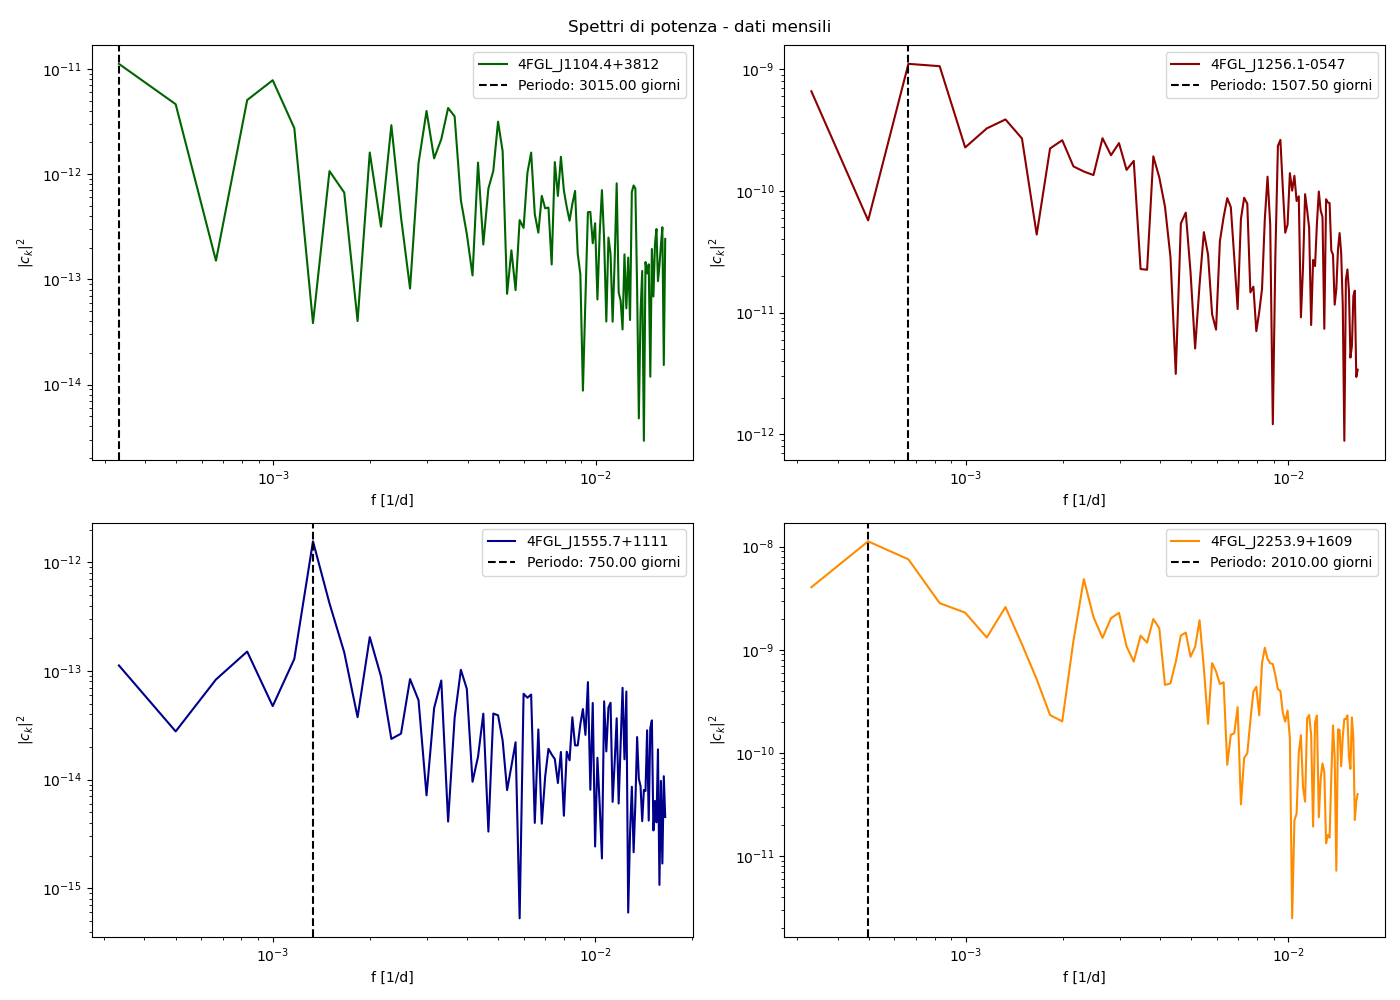
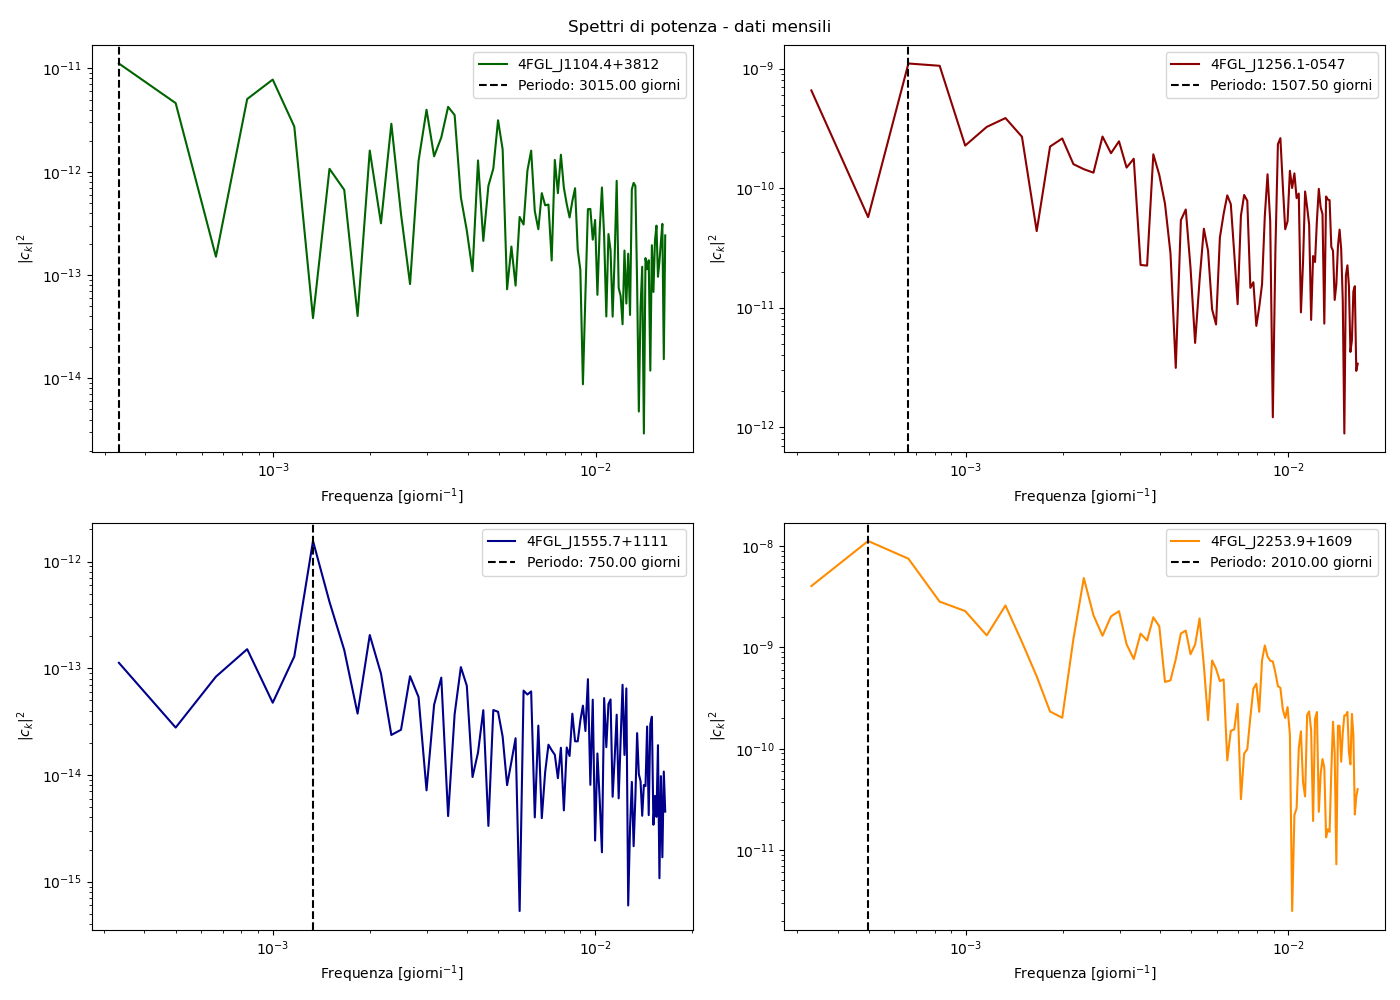
modifica

diff --git a/Curve_di_luce.py b/Curve_di_luce.py
@@ -185,6 +185,8 @@ def main():
             frequencies_w = weekly_source_data[source]['freq'][2:tmp_len]
             powers_w = np.absolute(weekly_source_data[source]['c'][2:tmp_len]) ** 2
             max_frequency, max_power, max_period = trova_picco_spettro(frequencies_w, powers_w)
+            errors_w = weekly_source_data[source]['df'][flux_err].values[2:tmp_len]
+            max_power_error = errors_w[powers_w == max_power][0]
             period_years = max_period / 365 # Conversione del periodo da giorni ad anni
 
             # Calcolo del tempo di osservazione e del numero di cicli osservati durante il periodo di misurazione
@@ -192,8 +194,8 @@ def main():
             number_periods = observation_time / max_period
 
             # Print dei risultati 
-            print('\nSorgente: {}\nFrequenza massima: {:.2e} 1/giorni\n' 'Potenza massima: {:.2e}\nPeriodo: {:.2f} giorni ({:.2f} anni)\n'
-                  'Numero di periodi nel tempo di misurazione: {:.2f}'.format(source, max_frequency, max_power, max_period, period_years, number_periods))
+            print('\nSorgente: {}\nFrequenza massima: {:.2e} 1/giorni\n' 'Potenza massima: {:.2e} +/- {:.2e}\nPeriodo: {:.2f} giorni ({:.2f} anni)\n'
+                  'Numero di periodi nel tempo di misurazione: {:.2f}'.format(source, max_frequency, max_power, max_power_error, max_period, period_years, number_periods))
 
             # Grafici in scala log-log degli spettri di potenza settimanali
             axs[i].plot(frequencies_w, powers_w, color=colors[i], label=source)
@@ -201,7 +203,7 @@ def main():
                            label='Periodo: {:.2f} giorni'.format(max_period))
             axs[i].set_xscale('log')
             axs[i].set_yscale('log')
-            axs[i].set_xlabel('f [1/d]')
+            axs[i].set_xlabel(r'Frequenza [giorni$^{-1}$]')
             axs[i].set_ylabel(r'$|c_k|^2$')
             axs[i].legend(loc='best')
             i += 1
@@ -223,7 +225,7 @@ def main():
 
         plt.xscale('log')
         plt.yscale('log')
-        plt.xlabel('f [1/d]')
+        plt.xlabel(r'Frequenza [giorni$^{-1}$]')
         plt.ylabel(r'$|c_k|^2$')
         plt.legend(loc='best')
         plt.title('Confronto spettri di potenza settimanali')
@@ -253,7 +255,7 @@ def main():
                            label='Periodo: {:.2f} giorni'.format(max_period))
             axs[i].set_xscale('log')
             axs[i].set_yscale('log')
-            axs[i].set_xlabel('f [1/d]')
+            axs[i].set_xlabel(r'Frequenza [giorni$^{-1}$]')
             axs[i].set_ylabel(r'$|c_k|^2$')
             axs[i].legend(fontsize=13, loc='best')
             axs[i].grid(True)
@@ -302,7 +304,7 @@ def main():
 
             axs[i].set_xscale('log')
             axs[i].set_yscale('log')
-            axs[i].set_xlabel('f [1/d]')
+            axs[i].set_xlabel(r'Frequenza [giorni$^{-1}$]')
             axs[i].set_ylabel(r'$|c_k|^2$')
             axs[i].set_title(f'{number_synthetic_curves} spettri sintetici')
             axs[i].legend(loc='best')
@@ -413,6 +415,8 @@ def main():
             frequencies_m = monthly_source_data[source]['freq'][2:tmp_len]
             powers_m = np.absolute(monthly_source_data[source]['c'][2:tmp_len]) ** 2
             max_frequency, max_power, max_period = trova_picco_spettro(frequencies_m, powers_m)
+            errors_m = monthly_source_data[source]['df'][flux_err].values[2:tmp_len]
+            max_power_error = errors_m[powers_m == max_power][0]
             period_years = max_period / 365 # Conversione del periodo da giorni ad anni
 
             # Calcolo del tempo di osservazione e del numero di cicli osservati durante il periodo di misurazione
@@ -420,8 +424,8 @@ def main():
             number_periods = observation_time / max_period
 
             # Print dei risultati
-            print('\nSorgente: {}\nFrequenza massima: {:.2e} 1/giorni\n' 'Potenza massima: {:.2e}\nPeriodo: {:.2f} giorni ({:.2f} anni)\n'
-                  'Numero di periodi nel tempo di misurazione: {:.2f}'.format(source, max_frequency, max_power, max_period, period_years, number_periods))
+            print('\nSorgente: {}\nFrequenza massima: {:.2e} 1/giorni\n' 'Potenza massima: {:.2e} +/- {:.2e}\nPeriodo: {:.2f} giorni ({:.2f} anni)\n'
+                  'Numero di periodi nel tempo di misurazione: {:.2f}'.format(source, max_frequency, max_power, max_power_error, max_period, period_years, number_periods))
 
             # Grafici in scala log-log degli spettri di potenza mensili
             axs[i].plot(frequencies_m, powers_m, color=colors[i], label=source)
@@ -429,7 +433,7 @@ def main():
                            label='Periodo: {:.2f} giorni'.format(max_period))
             axs[i].set_xscale('log')
             axs[i].set_yscale('log')
-            axs[i].set_xlabel('f [1/d]')
+            axs[i].set_xlabel(r'Frequenza [giorni$^{-1}$]')
             axs[i].set_ylabel(r'$|c_k|^2$')
             axs[i].legend(loc='best')
             i += 1
@@ -451,7 +455,7 @@ def main():
 
         plt.xscale('log')
         plt.yscale('log')
-        plt.xlabel('f [1/d]')
+        plt.xlabel(r'Frequenza [giorni$^{-1}$]')
         plt.ylabel(r'$|c_k|^2$')
         plt.legend(loc='best')
         plt.title('Confronto spettri di potenza mensili')
@@ -481,7 +485,7 @@ def main():
                            label='Periodo: {:.2f} giorni'.format(max_period))
             axs[i].set_xscale('log')
             axs[i].set_yscale('log')
-            axs[i].set_xlabel('f [1/d]')
+            axs[i].set_xlabel(r'Frequenza [giorni$^{-1}$]')
             axs[i].set_ylabel(r'$|c_k|^2$')
             axs[i].legend(fontsize=13, loc='best')
             axs[i].grid(True)
@@ -530,7 +534,7 @@ def main():
 
             axs[i].set_xscale('log')
             axs[i].set_yscale('log')
-            axs[i].set_xlabel('f [1/d]')
+            axs[i].set_xlabel(r'Frequenza [giorni$^{-1}$]')
             axs[i].set_ylabel(r'$|c_k|^2$')
             axs[i].set_title(f'{number_synthetic_curves} spettri sintetici')
             axs[i].legend(loc='best')
